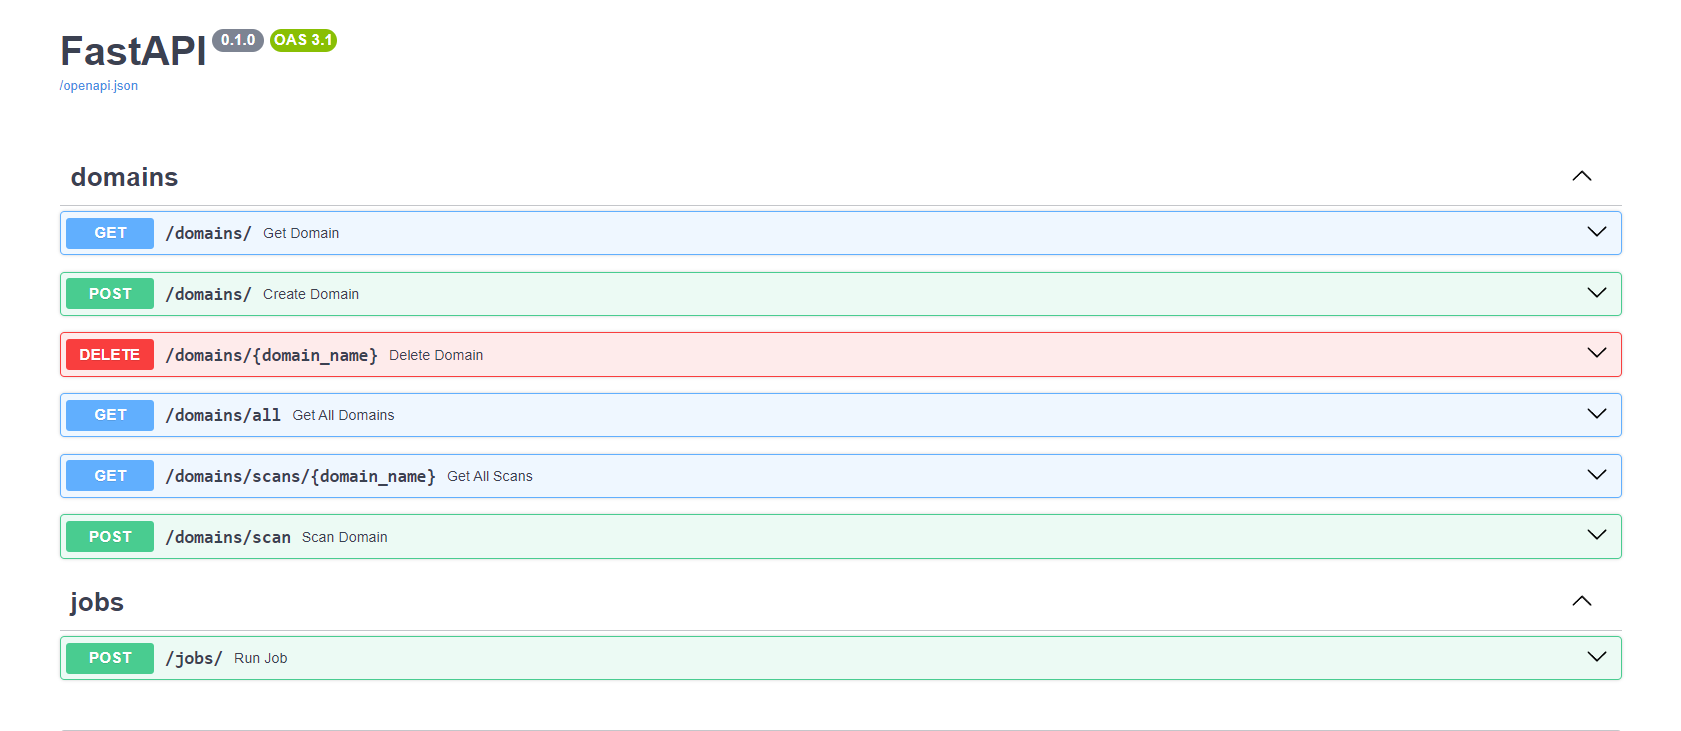
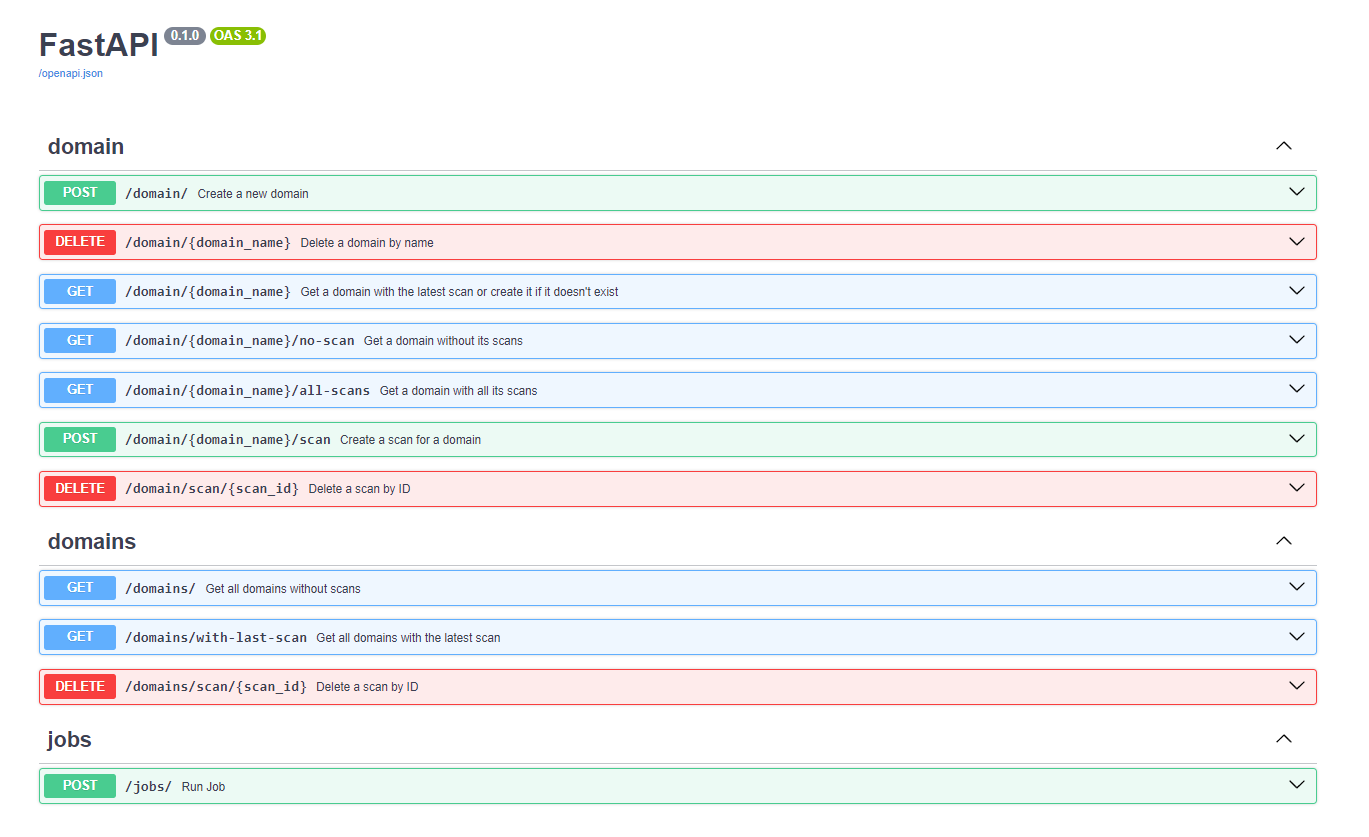
Updated app version and screenshot.png

diff --git a/app/main.py b/app/main.py
@@ -14,7 +14,11 @@ from app.models import *  # Ensure models are imported so Base can see them
 from app.services import virus_total_service, whois_service, google_dns_service, cloudflare_dns_service, \
     hackertarget_dns_service
 
-app = FastAPI()
+app = FastAPI(
+    title="Threat Intelligence",
+    version="0.1.2",
+    description="An Async FastAPI Server for Threat Intelligence"
+)
 
 # Middleware configuration
 app.add_middleware(
@@ -26,9 +30,9 @@ app.add_middleware(
 )
 
 # Include routers
-app.include_router(domain.router, prefix="/domain", tags=["domain"])
-app.include_router(domains.router, prefix="/domains", tags=["domains"])
-app.include_router(jobs.router, prefix="/jobs", tags=["jobs"])
+app.include_router(domain.router, prefix="/domain", tags=["Domain"])
+app.include_router(domains.router, prefix="/domains", tags=["Domains"])
+app.include_router(jobs.router, prefix="/jobs", tags=["Jobs"])
 
 # Initialize the database (create if not exists)
 initialize_database()

diff --git a/app/services/scan_service.py b/app/services/scan_service.py
@@ -1,10 +1,12 @@
 from typing import Tuple, Dict, Any
 
+from app.models import ScanStatus
+
 from .base_service import BaseService
 import asyncio
 
 
-async def perform_scans(domain_name: str) -> Tuple[Dict[str, Any], str]:
+async def perform_scans(domain_name: str) -> Tuple[Dict[str, Any], ScanStatus]:
     results: Dict[str, Any] = {}
     statuses: Dict[str, bool] = {}
 
@@ -25,10 +27,10 @@ async def perform_scans(domain_name: str) -> Tuple[Dict[str, Any], str]:
     await asyncio.gather(*tasks)
 
     if all(statuses.values()):
-        scan_status = "completed"
+        scan_status = ScanStatus.completed
     elif any(statuses.values()):
-        scan_status = "partially succeeded"
+        scan_status = ScanStatus.partially_succeeded
     else:
-        scan_status = "failed"
+        scan_status = ScanStatus.failed
 
     return results, scan_status
